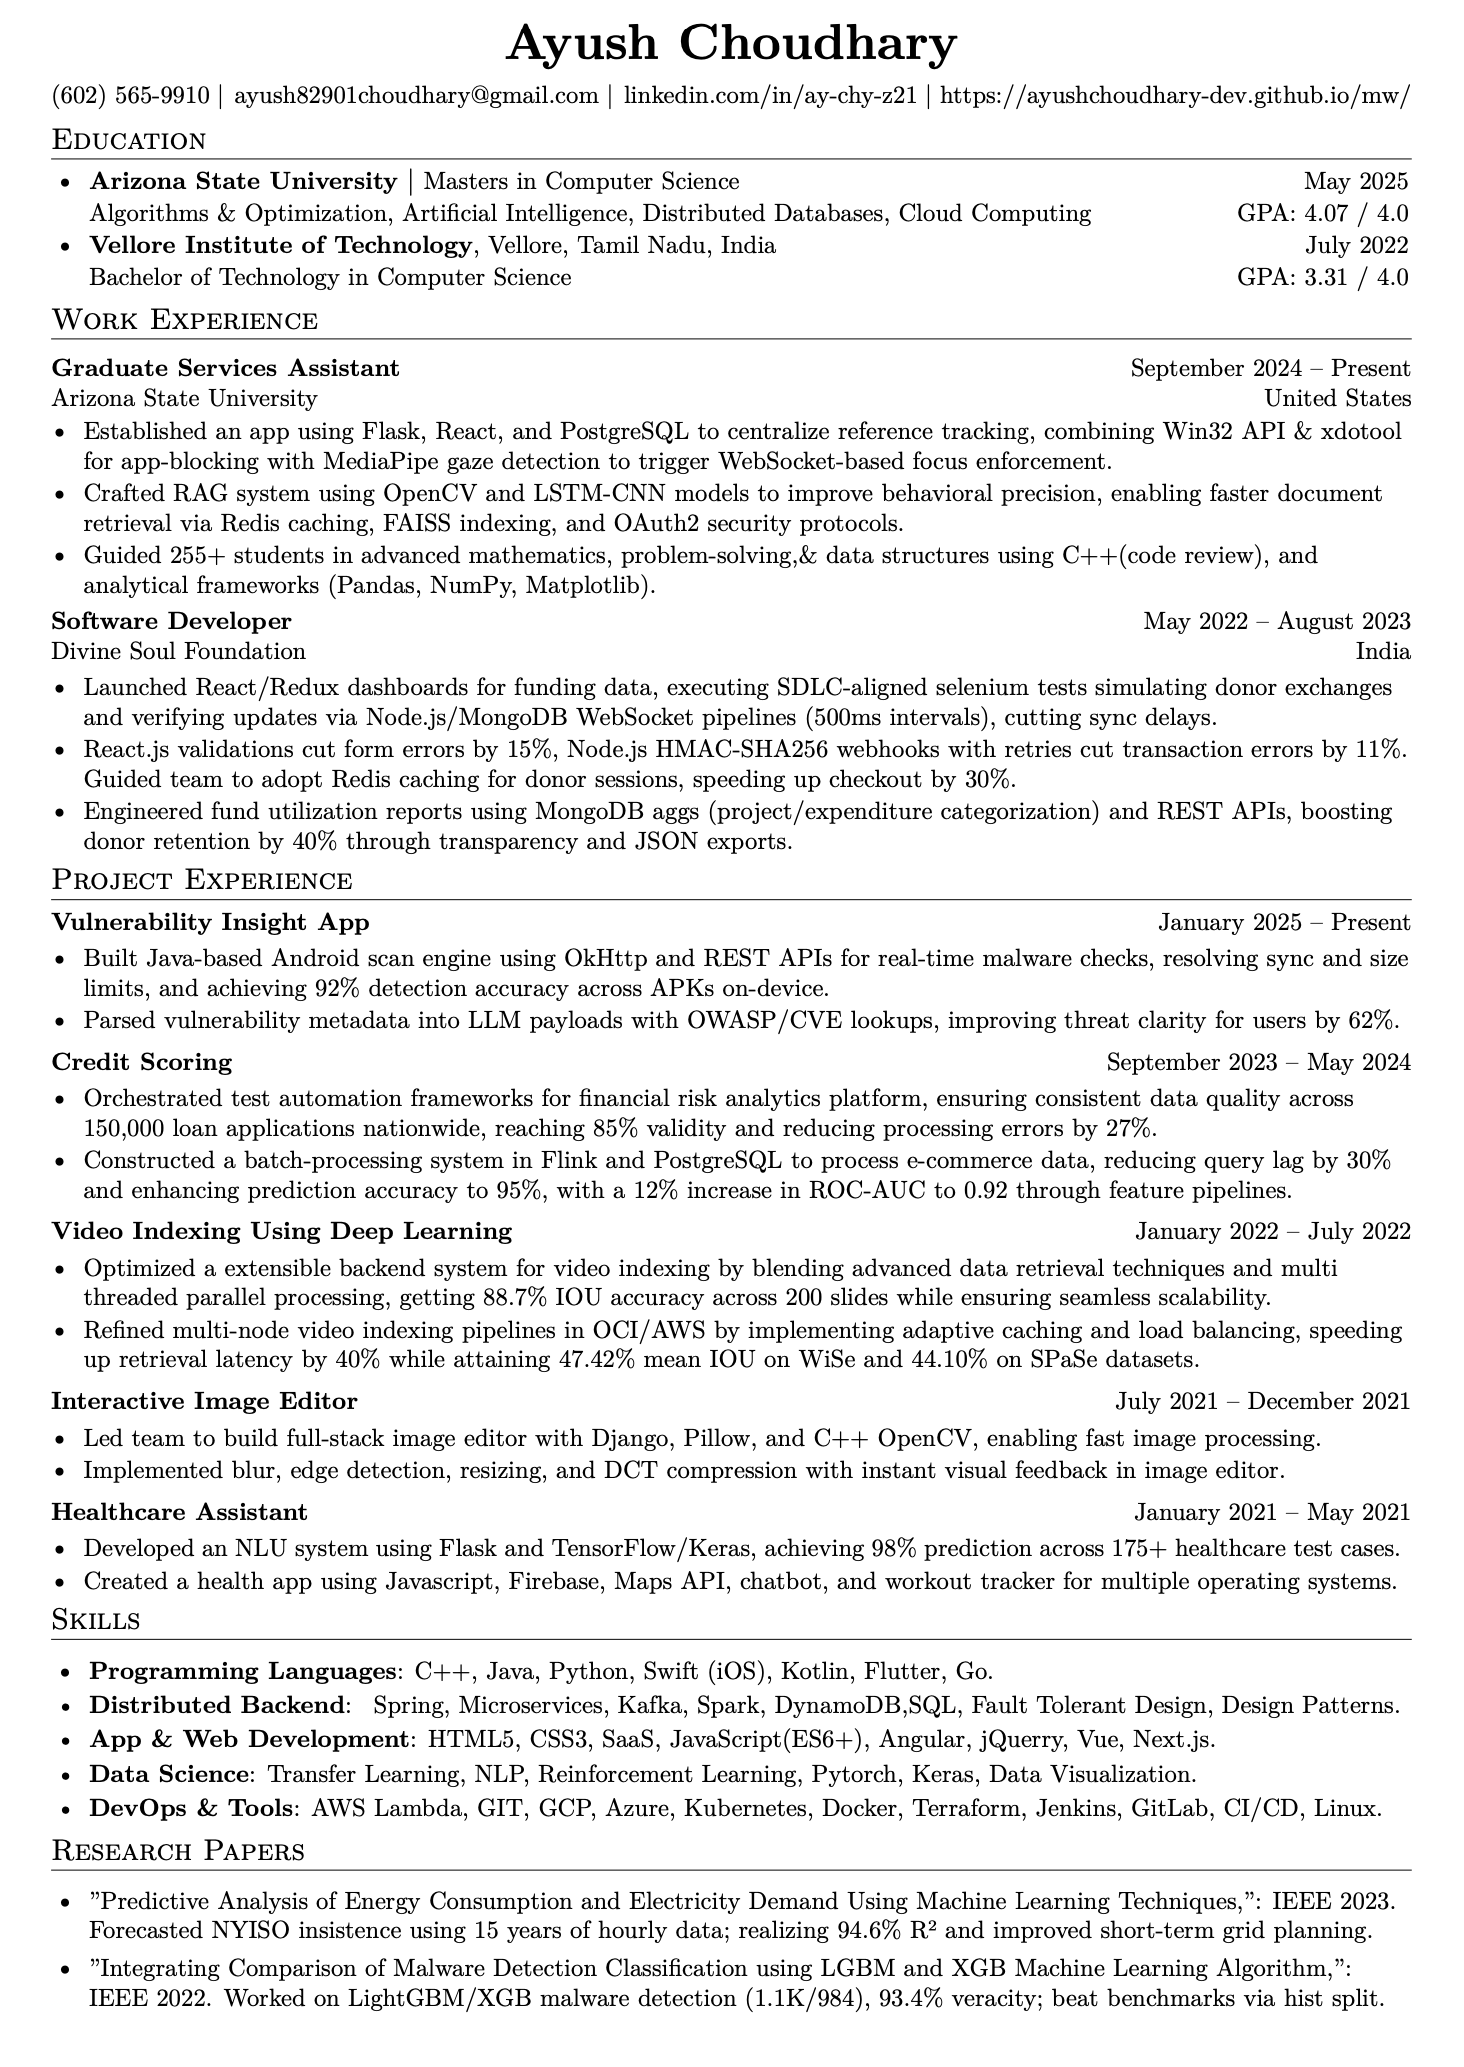
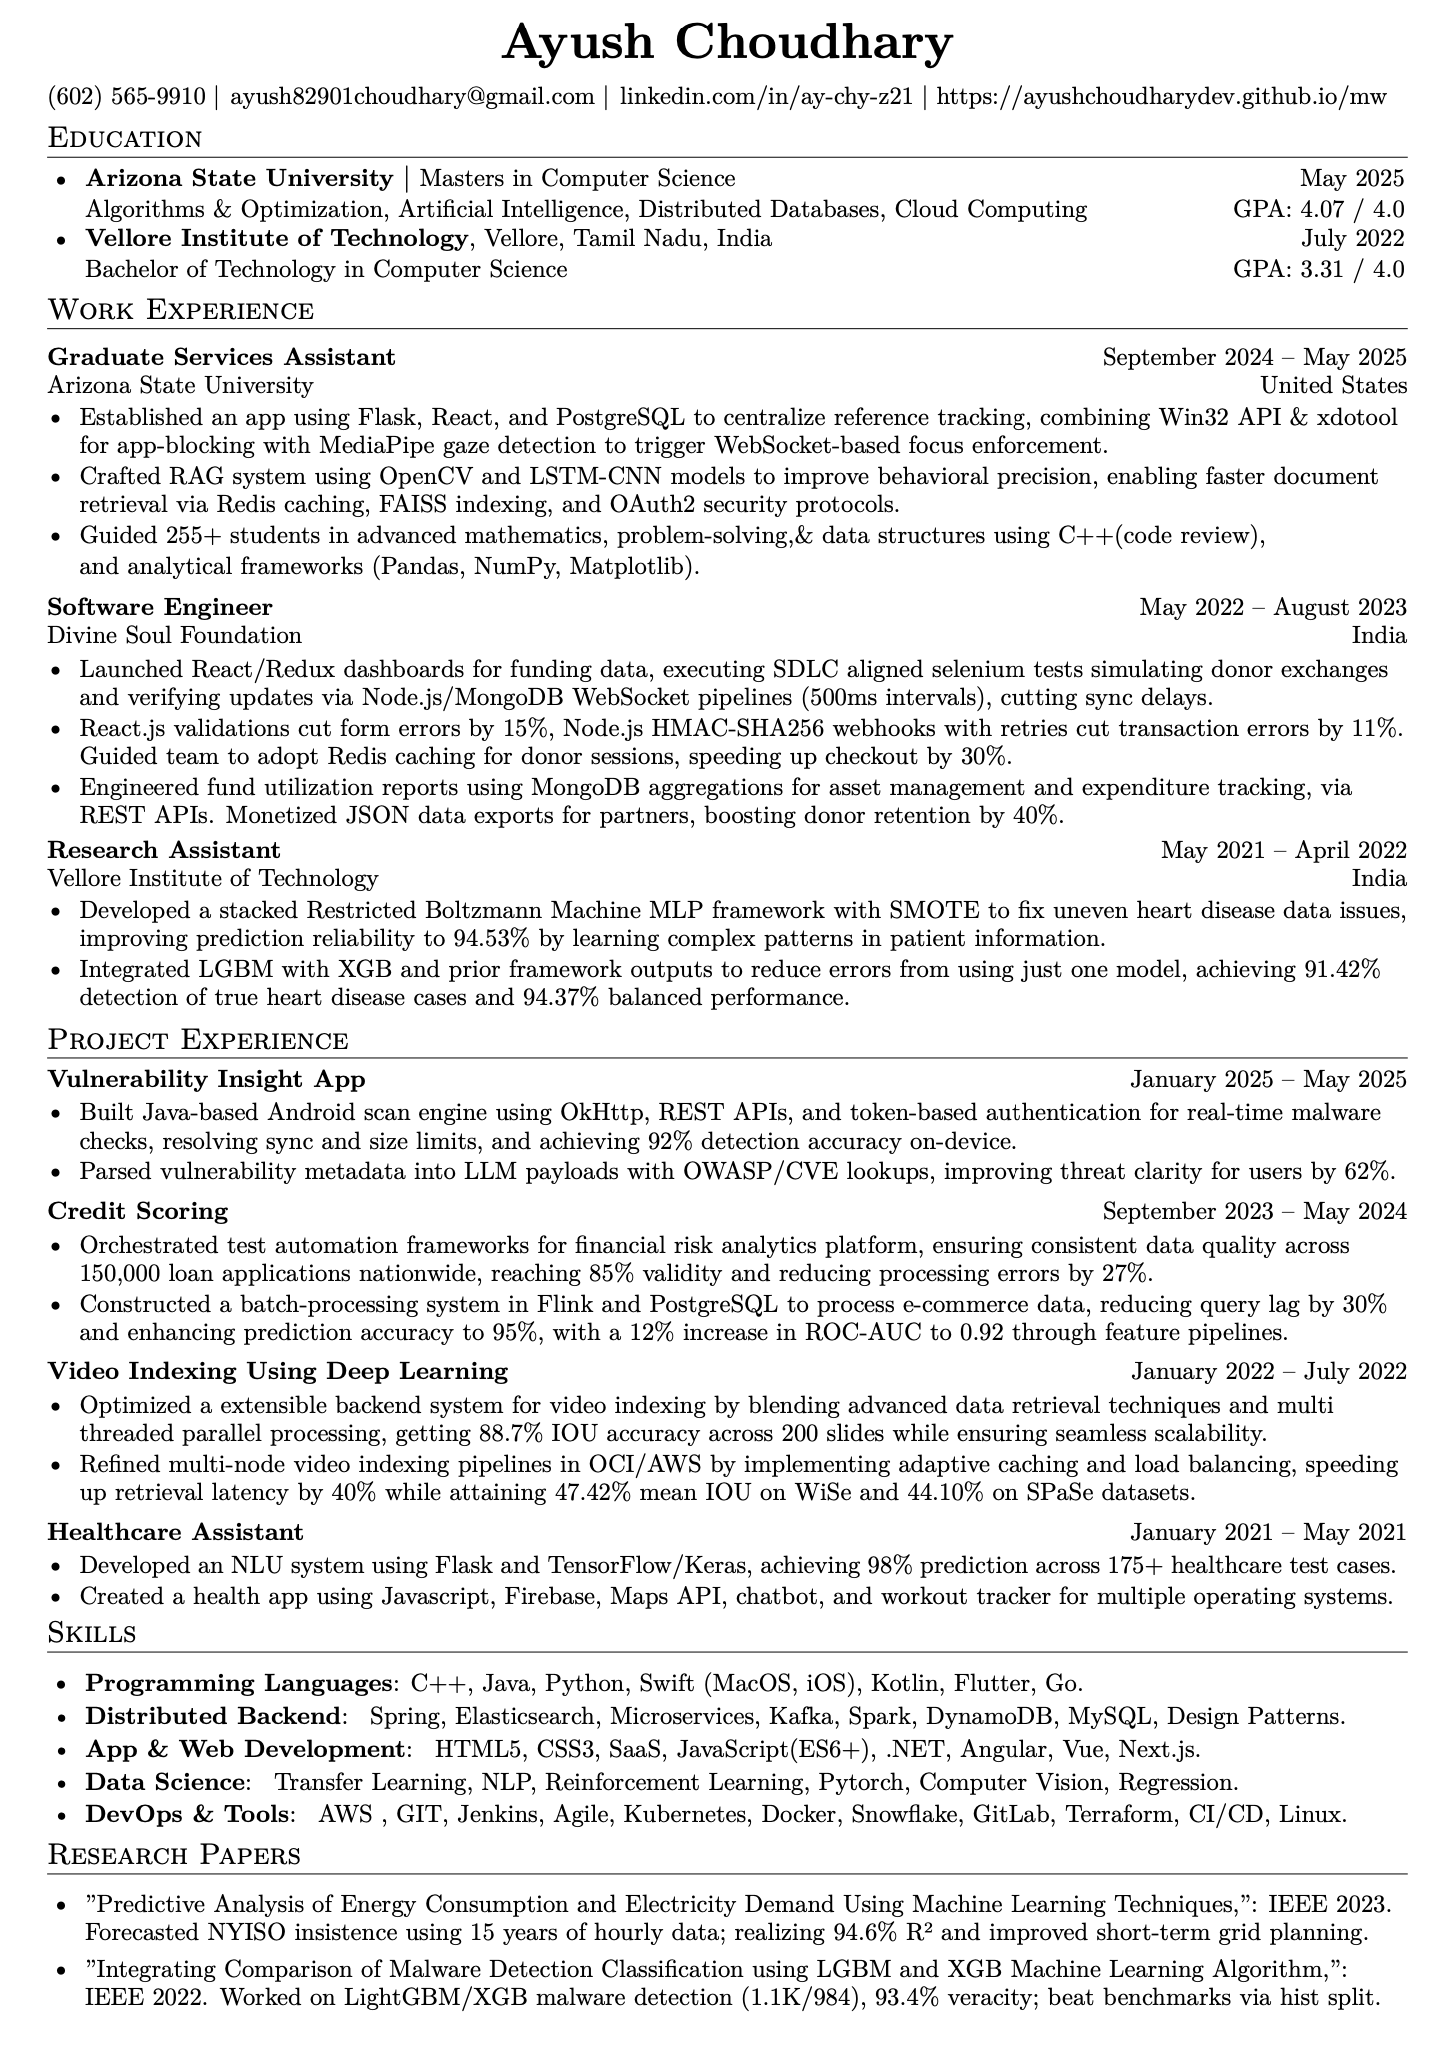
JOB Update

Changed region(s): [[0.0309, 0.0, 0.9588, 0.9908]]

diff --git a/about.md b/about.md
@@ -380,6 +380,15 @@ I've recently embarked on a fitness journey, recognizing that a healthy body and
         <p>Built React-Redux dashboards, optimized UPI with Redis, engineered MongoDB APIs.</p>
     </div>
 </div>
+<div class="experience-card">
+    <img class="company-logo" src="/mw/assets/images/VITlogo.png" alt="VIT Logo">
+    <div class="experience-content">
+        <h3>Vellore Institute of Technology</h3>
+        <p><strong>Reseach Assistant</strong></p>
+        <p class="education-meta">May 2021 - April 2022</p>
+        <p>Stacked RBM-MLP + SMOTE achieved 94.53% heart disease prediction, Integrated LGBM+XGB ensemble achieved 91.42% recall and 94.37% F1.</p>
+    </div>
+</div>
 
 
 <div class="section-divider dots"></div>
